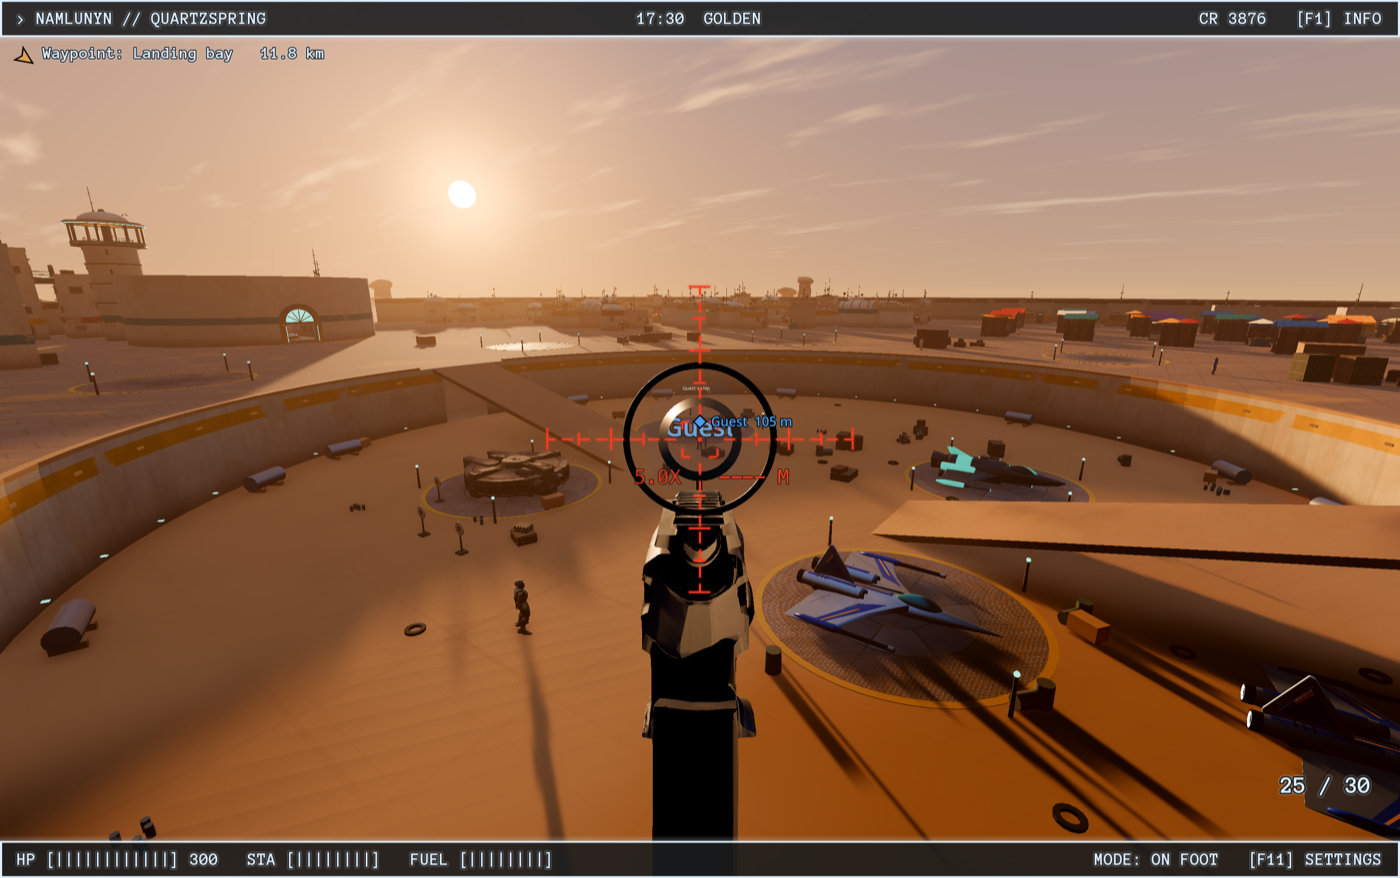
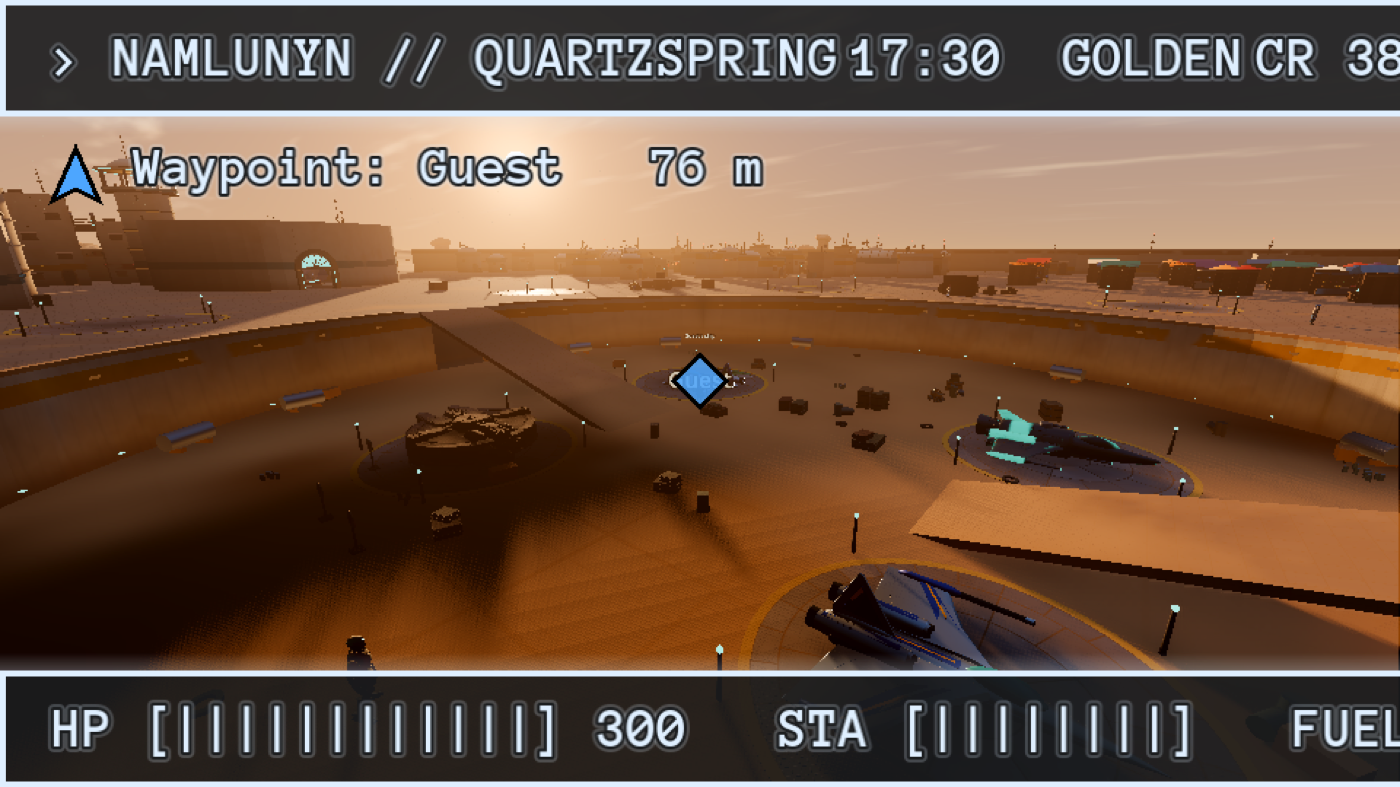
LAN: other players on the F11 map, click one to make them the waypoint
As asked: no marks by distance on the HUD. Each other player on foot is a
blue dot with their name on the F11 map; a click sets a "player:<id>"
waypoint. The HUD pointer follows them (ObjectiveHud.where), its arrow and
diamond blue, the line white as any waypoint's; it clears within
waypoint_arrive_m of them or when they leave the game. Their floating name
keeps its old colour.

diff --git a/CHANGELOG.md b/CHANGELOG.md
@@ -6,14 +6,15 @@ Plain English, newest on top. One entry per milestone.
 
 - **The other players were there, just hard to find.** A guest arrives by a
   pad down in the pit, often 80 m or more from the host, and the name over
-  their head was a few centimetres of cream text, the colour of an NPC's
-  speech: past a few metres you could not tell a player from a townsperson.
-- **Their name is blue and the same size on screen at any distance.**
-- **A blue mark on the HUD** for each other player on foot within 3 km, past
-  25 m: a diamond over them, through walls, with their name and how far.
-- **On the F11 map** they show as a blue dot with their name.
-- Tunable in `content/core/flow/lan.json` (`name_px`, `mark_m`, `mark_near_m`,
-  `mark_color`).
+  their head was a few centimetres of text the colour of an NPC's speech: past
+  a few metres you could not tell a player from a townsperson.
+- **Their name is the same size on screen at any distance.**
+- **On the F11 map** each other player on foot is a blue dot with their name.
+  Click one and they are your waypoint: the HUD's pointer follows them with a
+  blue diamond (the line stays white), and clears when you reach them or they
+  leave the game.
+- Tunable in `content/core/flow/lan.json` (`name_px`, `mark_color`,
+  `waypoint_arrive_m`).
 
 ## The wreck field is cheaper to look at (2026-11-03)
 
